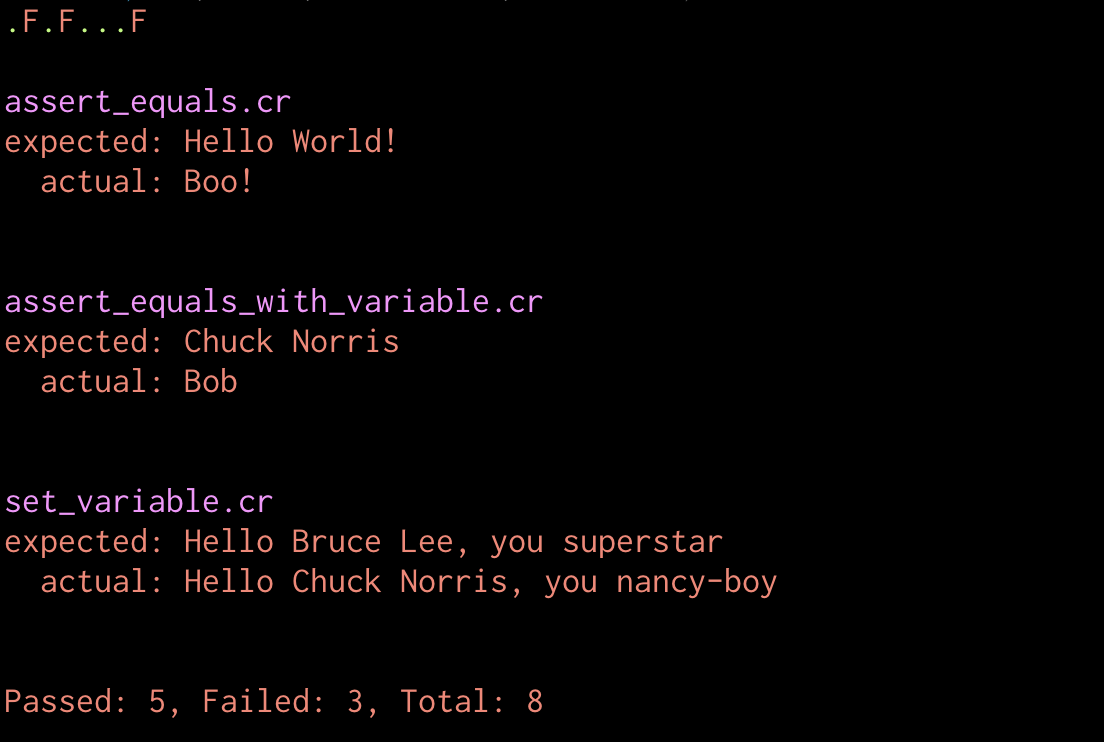
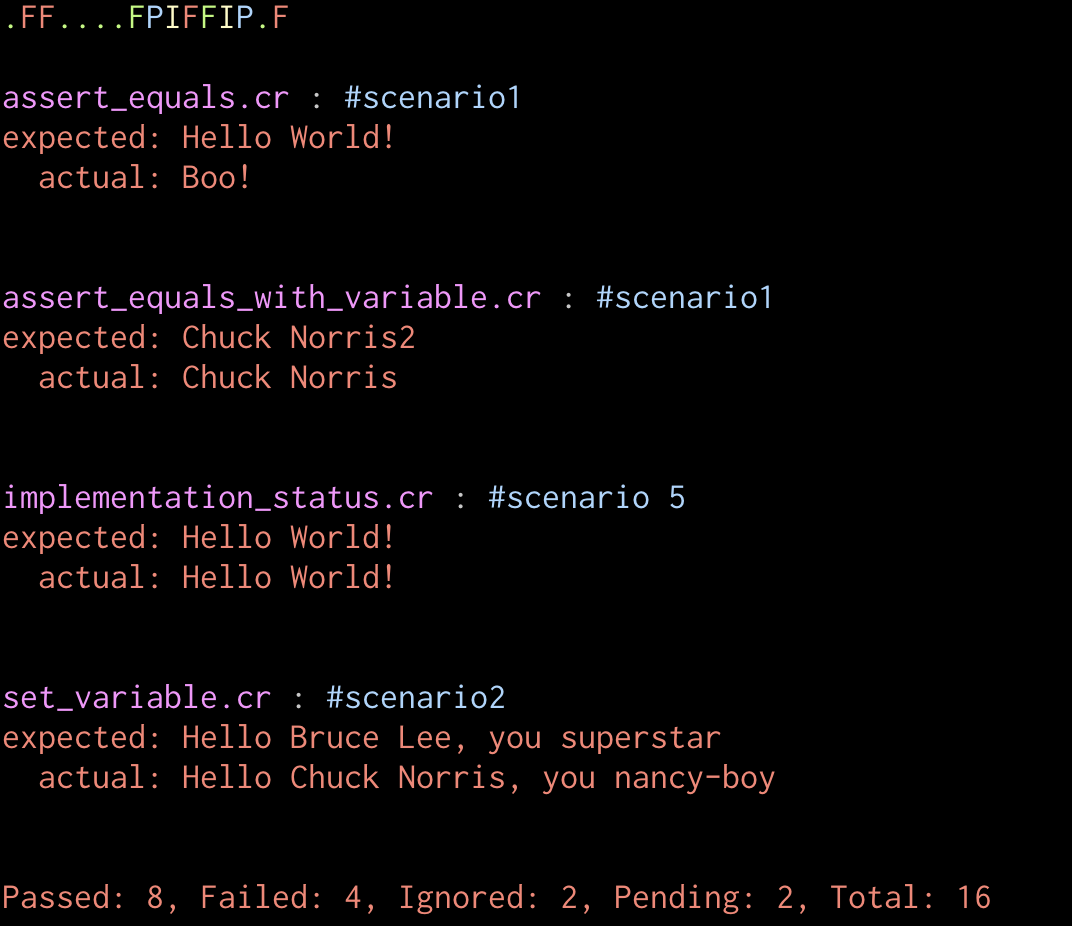
update readme

diff --git a/spec/implementation_status.html b/spec/implementation_status.html
@@ -23,6 +23,10 @@
         <blockquote>
           (expected_to_fail) The failed greeting should be <b spinach:assert_equals="failed_greeting()">Hello World!</b>.
         </blockquote>
+
+        <blockquote>
+          (expected_to_fail) The failed greeting should be <b spinach:assert_equals="get_greeting()">Hello World!</b>.
+        </blockquote>
       </div>
 
       <div spinach:scenario="#scenario 3" spinach:status="pending">
@@ -43,10 +47,10 @@
   <p>
   <h5>These are examples specifying implementation status on specific assertions within a scenario using <b>status</b>.</h5>
 </p>
-<div class="container" spinach:scenario="#scenario4">
+<div class="container" spinach:scenario="#scenario 5">
 
   <blockquote>
-    (expected_to_pass) The failed greeting should be <b spinach:assert_equals="get_greeting()" spinach:status="expected_to_fail">Hello World!</b>.
+    (expected_to_fail) The failed greeting should be <b spinach:assert_equals="get_greeting()" spinach:status="expected_to_fail">Hello World!</b>.
   </blockquote>
 
   <blockquote>

diff --git a/README.md b/README.md
@@ -30,6 +30,7 @@ There are 3 directives:
 * assert_equals
 * set
 * execute
+* status
 
 In your HTML you use these to write the specs. See below. See also the specs of this project for examples.
 
@@ -102,6 +103,21 @@ When returning a result in an execute you **MUST** return a `HashMap`
 
 ![](.README/execute_function.png)
 
+### Implementation Status
+
+```html
+<div spinach:scenario="#scenario 2" spinach:status="expected_to_fail">
+  <blockquote>
+    (expected_to_fail) The failed greeting should be <b spinach:assert_equals="failed_greeting()">Hello World!</b>.
+  </blockquote>
+</div>
+
+```
+
+You can add the `status` directive to either the node with `spinach:scenario` to apply it to the whole scenario or you can add it to a specific assert_equals node.
+
+![](.README/implementation_status.png)
+
 ## Running
 
 To run a spec you can do the following:
@@ -116,6 +132,11 @@ There is a basic command line report:
 
 ![](.README/cli.png)
 
+* a green dot is passed
+* a red F is failed
+* a green F is failed but expected to fail
+* a yellow I is ignored
+* a blue P is pending
 
 ## Writing Specs
 
